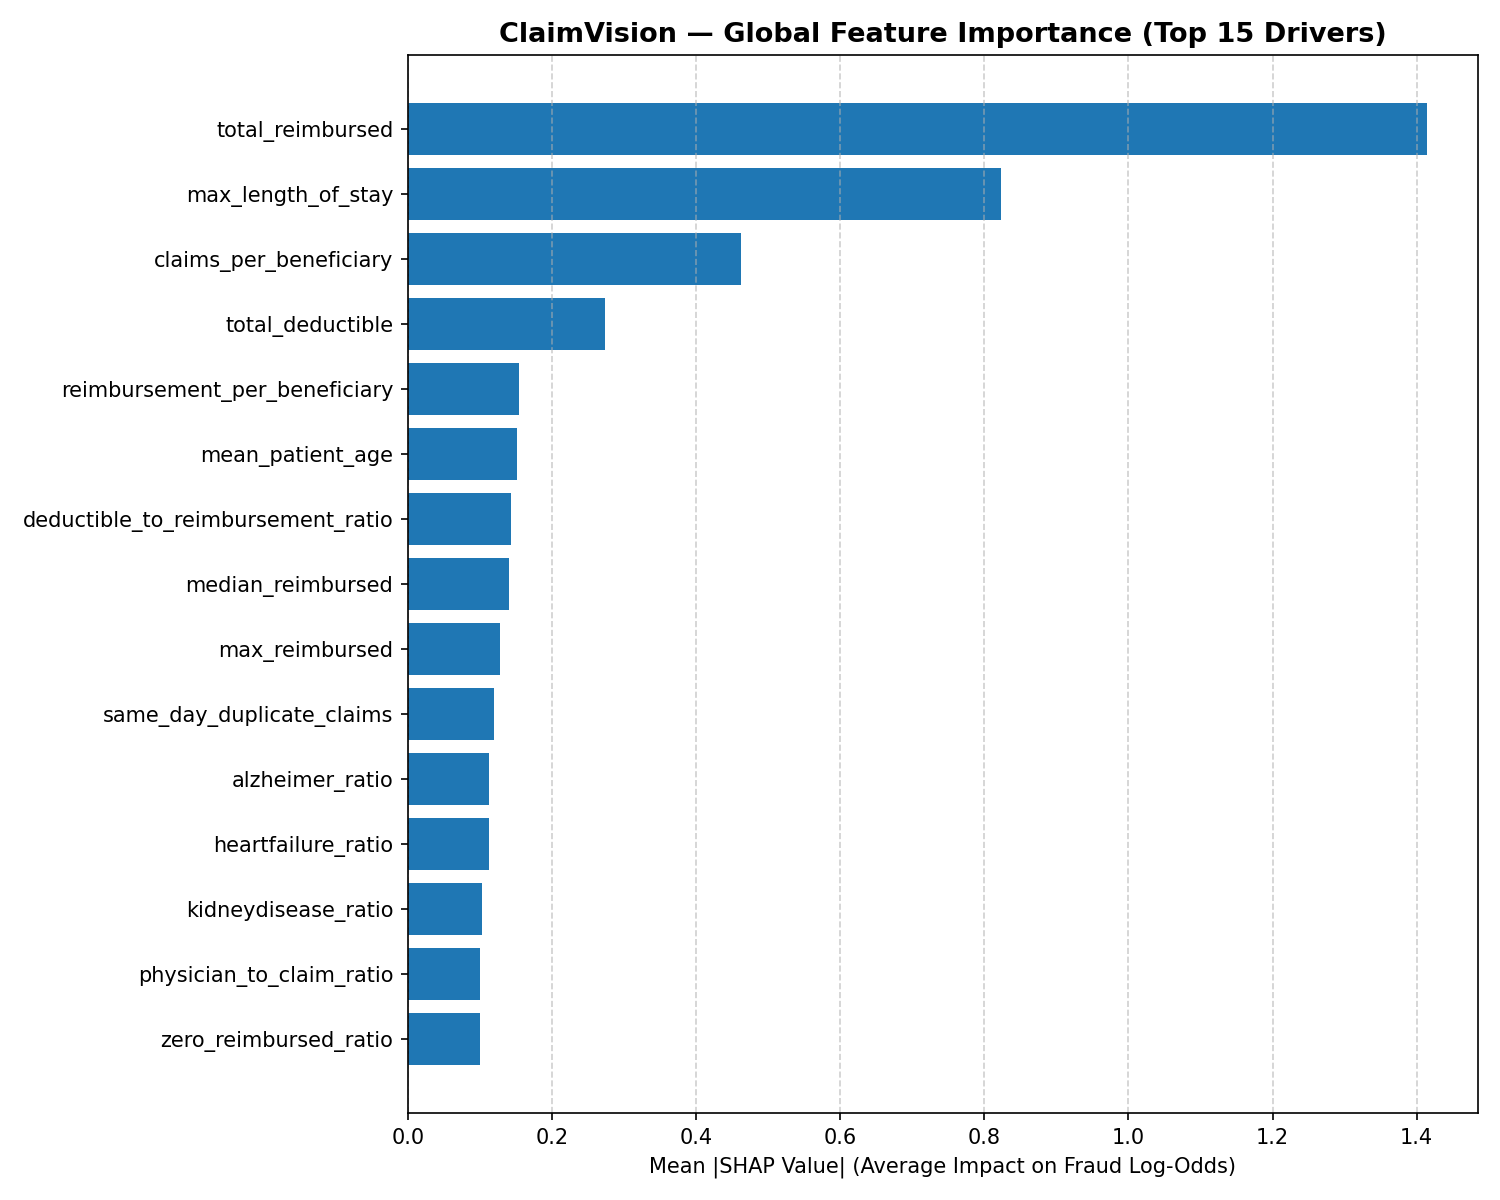
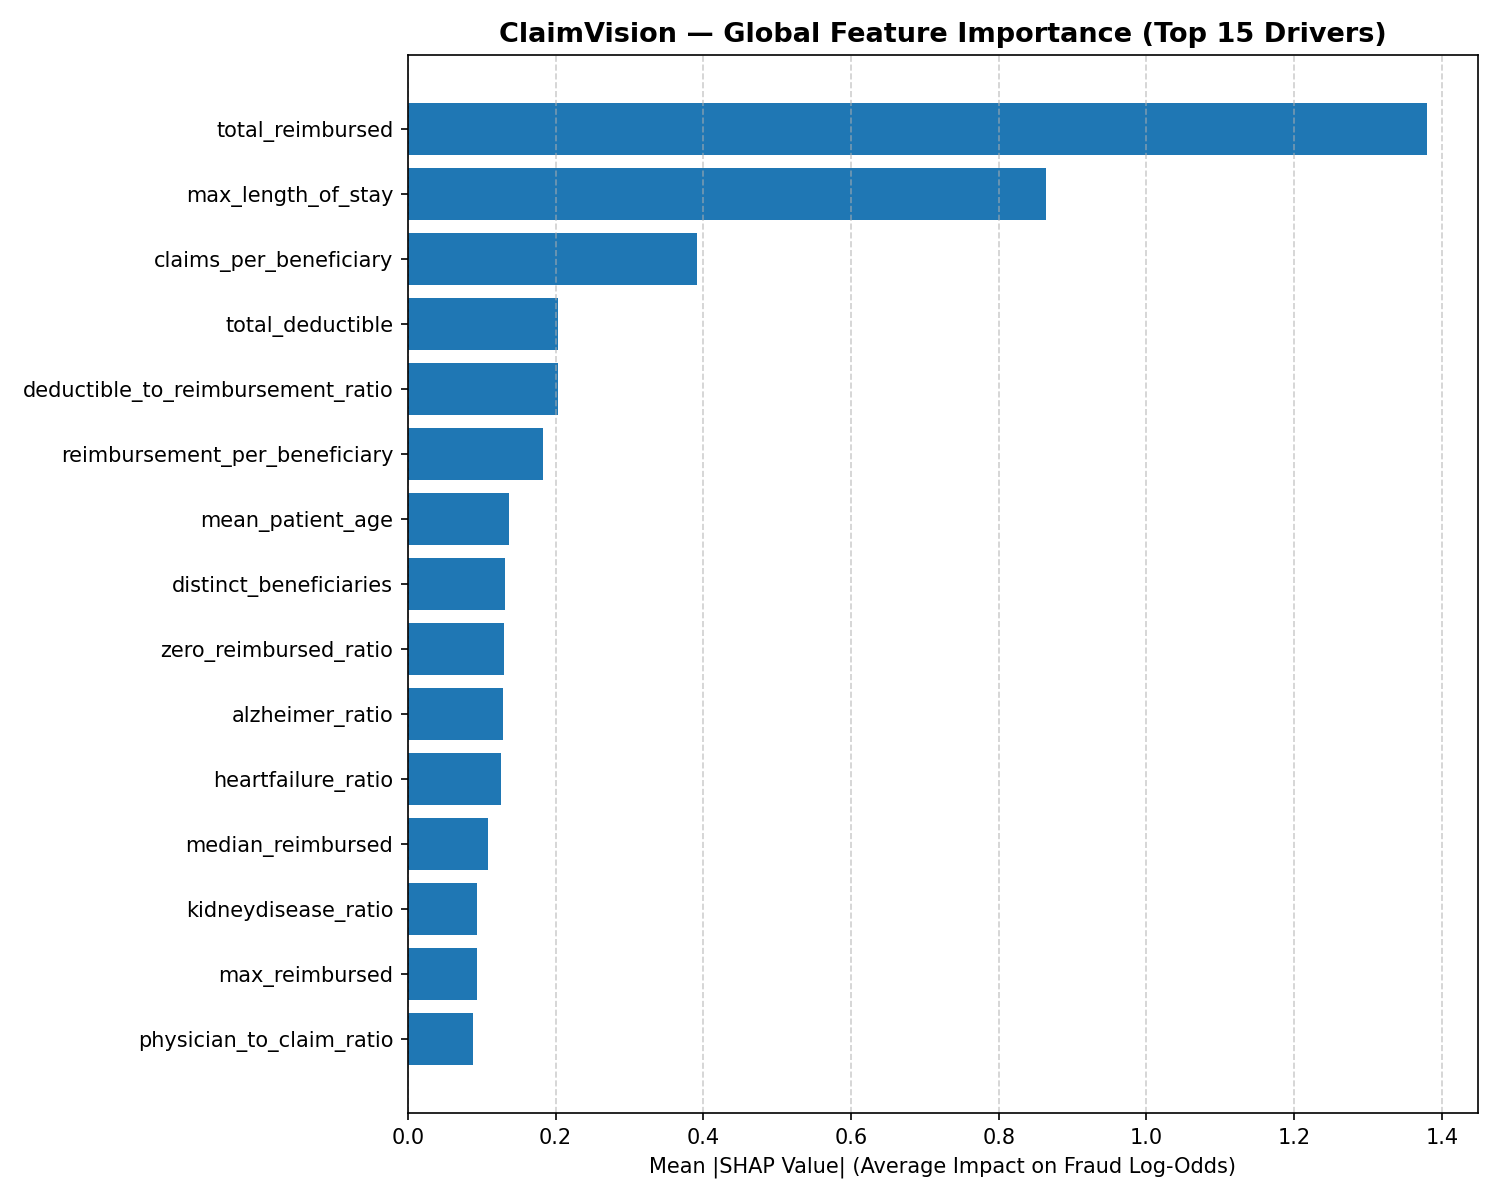
fix: complete PostgreSQL validation and protect production artifacts
- Verified PostgreSQL 16 container active and healthy via Docker Compose
- Verified application connection via DATABASE_URL
- Verified all 18/18 pytest tests pass against PostgreSQL (0 skipped, 0 failed)
- Added save_artifacts parameter to FraudModelPipeline.run() to protect production metrics from unit test runs
- Fixed metrics key access in run_pipeline.py summary logger
- Executed PostgreSQL EXPLAIN (ANALYZE, BUFFERS) query optimization checks
- Verified zero provider overlap between train and test sets
- Verified dynamic scale_pos_weight derived strictly from y_train

diff --git a/run_pipeline.py b/run_pipeline.py
@@ -68,10 +68,10 @@ def execute_pipeline(sample_mode: bool = False, skip_etl: bool = False) -> None:
     elapsed = time.perf_counter() - start_total
     logger.info("=" * 80)
     logger.info(f"CLAIMVISION PIPELINE EXECUTION COMPLETE in {elapsed:.2f} seconds!")
-    logger.info(f"Final Model Test ROC-AUC: {metrics['test_set']['roc_auc']:.4f}")
-    logger.info(f"Final Model Tuned F1-Score: {metrics['test_set']['tuned_threshold']['f1_score']:.4f}")
-    logger.info(f"Final Model Tuned Precision: {metrics['test_set']['tuned_threshold']['precision']:.4f}")
-    logger.info(f"Final Model Tuned Recall: {metrics['test_set']['tuned_threshold']['recall']:.4f}")
+    logger.info(f"Final Model Test ROC-AUC: {metrics['roc_auc']:.4f}")
+    logger.info(f"Final Model Tuned F1-Score: {metrics['tuned_threshold']['f1_score']:.4f}")
+    logger.info(f"Final Model Tuned Precision: {metrics['tuned_threshold']['precision']:.4f}")
+    logger.info(f"Final Model Tuned Recall: {metrics['tuned_threshold']['recall']:.4f}")
     logger.info("=" * 80)
 
 

diff --git a/src/model_pipeline.py b/src/model_pipeline.py
@@ -320,7 +320,9 @@ class FraudModelPipeline:
         logger.info("Saved metric results to %s", metrics_path)
         return model_path
 
-    def run(self, df_features: Optional[pd.DataFrame] = None) -> Dict[str, Any]:
+    def run(
+        self, df_features: Optional[pd.DataFrame] = None, save_artifacts: bool = True
+    ) -> Dict[str, Any]:
         """Execute the full ML pipeline end-to-end."""
         if df_features is None:
             fe = FeatureEngineer()
@@ -331,7 +333,8 @@ class FraudModelPipeline:
         self.train_xgboost(X_train, y_train)
         self.tune_threshold(X_train, y_train)
         metrics = self.evaluate_on_test(X_test, y_test)
-        self.save_model()
+        if save_artifacts:
+            self.save_model()
 
         print("\n=== FINAL EVALUATION METRICS ===")
         print(json.dumps(metrics, indent=2))

diff --git a/tests/test_model_pipeline.py b/tests/test_model_pipeline.py
@@ -114,7 +114,7 @@ def test_pipeline_full_run():
     """Full pipeline run on synthetic provider data must produce valid metrics."""
     df = make_fake_provider_features(n_providers=300, fraud_rate=0.10)
     pipeline = FraudModelPipeline(random_seed=42, n_folds=2)
-    metrics = pipeline.run(df_features=df)
+    metrics = pipeline.run(df_features=df, save_artifacts=False)
     assert "roc_auc" in metrics
     assert 0.0 <= metrics["roc_auc"] <= 1.0
     assert "tuned_threshold" in metrics
